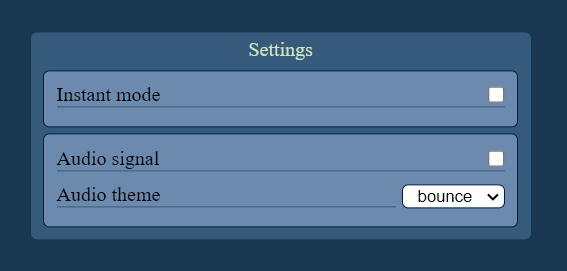
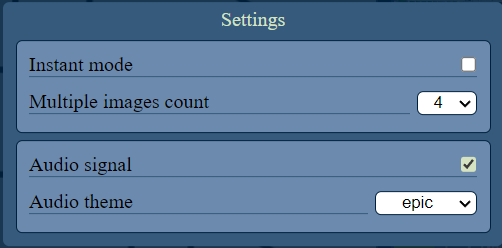
actualize MD

diff --git a/README_Web.md b/README_Web.md
@@ -22,6 +22,7 @@ A Web script that lets you paint on a canvas and sends that image to the automat
 | `d`                                     | Download result image (if any) from browser         |
 | `e`                                     | Set brush type to `ellipse`                         |
 | `l`                                     | Set brush type to `line`                            |
+| `m`                                     | Switch multiple images mode                         |
 | `p`                                     | Set brush type to `pencil`                          |
 | `r`                                     | Set brush type to `rectangle`                       |
 | `Ctrl` + `e`                            | Switch eraser brush mode                            |
@@ -81,6 +82,7 @@ This is main control panel of this app. Here are:
 - `Settings` button ( ⛭ ). Opens settings modal.
 - `Clear` button. Resets `painting canvas`.
 - `Zen mode` button. Enters simplified interface mode.
+- `Multiple mode` checkbox. Switches multiple images generation result.
 - `Generate` button. Triggers ControlNet API image generation.
 
 ### `Settings modal`
@@ -90,6 +92,7 @@ This is main control panel of this app. Here are:
 Here you can change:
 
 - `Instant mode`. Switches instant mode (requests image redraw just when you stroke).
+- `Multiple images count`. Selects how many images will be generated in multiple mode.
 - `Audio signal`. Toggles audio signal.
 - `Audio theme`. Customizes the audio signal theme.
 
@@ -110,6 +113,20 @@ There is a place for ControlNet generations. If in process, progressbar and load
 
 ![image](images/web_loading.png)
 ![image](images/web_skip.png)
+
+If you select multiple mode, there will appear multiple images
+![image](images/web_multiple.png)
+Each of them use its own seed and you can switch to it by clicking button (appears on hover on image that use it).
+
+## Image viewer
+
+![image](images/web_viewer.png)
+Image viewer appears when you click on result image.
+There is:
+
+- image info such as used sketch, prompt, negative prompt etc.
+- actualy the image itself
+- images carousel (if multiple)
 
 ### Zen mode
 
